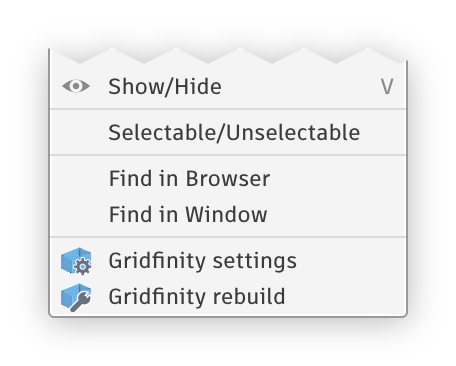
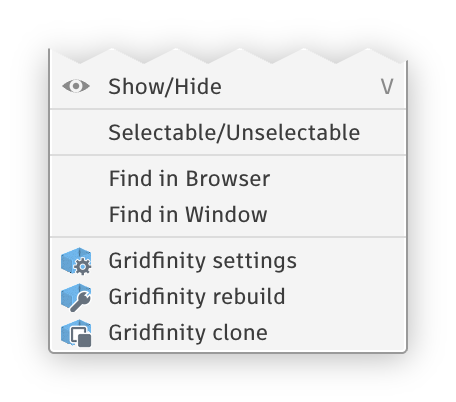
Clone a bin or baseplate from its context menu
A Gridfinity clone item below Gridfinity settings and rebuild opens the
generator dialog with the body's settings to build a new one, as the
Clone button of the settings window does. Its icon is a bin with two
sheets, a copy. The README and its context menu shots show it.

diff --git a/commands/commandShowSettings/entry.py b/commands/commandShowSettings/entry.py
@@ -26,6 +26,12 @@ REBUILD_CMD_NAME = 'Gridfinity rebuild'
 # a bin with a wrench
 REBUILD_ICON_FOLDER = os.path.join(os.path.dirname(os.path.abspath(__file__)), 'resources', 'rebuild', '')
 REBUILD_CMD_DESCRIPTION = 'Open the generator dialog with the settings of this bin or baseplate to build it again in its place, keeping the features after it'
+# the context menu item opening the generator's dialog with these settings for a new body, as the Clone button of the window does
+CLONE_CMD_ID = f'{config.COMPANY_NAME}_{config.ADDIN_NAME}_cmdClone'
+CLONE_CMD_NAME = 'Gridfinity clone'
+# a bin with two sheets, a copy
+CLONE_ICON_FOLDER = os.path.join(os.path.dirname(os.path.abspath(__file__)), 'resources', 'clone', '')
+CLONE_CMD_DESCRIPTION = 'Open the generator dialog with the settings of this bin or baseplate to build a new one'
 
 SETTINGS_TEXT_INPUT = 'settings_text'
 SETTINGS_BROWSER = 'settings'
@@ -75,6 +81,10 @@ def canRebuild(tag: tuple[adsk.fusion.BRepBody, str, dict] | None) -> bool:
     """Bodies generated before the generator kept the config can't be rebuilt"""
     return tag is not None and tag[1] in REBUILD_COMMANDS and isinstance(tag[2].get('config'), dict)
 
+def canClone(tag: tuple[adsk.fusion.BRepBody, str, dict] | None) -> bool:
+    """Bodies generated before the generator kept the config can't be cloned"""
+    return tag is not None and tag[1] in CLONE_COMMANDS and isinstance(tag[2].get('config'), dict)
+
 def startRebuild(tag: tuple[adsk.fusion.BRepBody, str, dict]):
     (body, tagName, value) = tag
     REBUILD_COMMANDS[tagName].startRebuild(body, value)
@@ -94,6 +104,10 @@ def start():
     if not rebuild_def:
         rebuild_def = ui.commandDefinitions.addButtonDefinition(REBUILD_CMD_ID, REBUILD_CMD_NAME, REBUILD_CMD_DESCRIPTION, REBUILD_ICON_FOLDER)
     futil.add_handler(rebuild_def.commandCreated, rebuild_command_created)
+    clone_def = ui.commandDefinitions.itemById(CLONE_CMD_ID)
+    if not clone_def:
+        clone_def = ui.commandDefinitions.addButtonDefinition(CLONE_CMD_ID, CLONE_CMD_NAME, CLONE_CMD_DESCRIPTION, CLONE_ICON_FOLDER)
+    futil.add_handler(clone_def.commandCreated, clone_command_created)
     markingMenuHandler = futil.add_handler(ui.markingMenuDisplaying, marking_menu_displaying, local_handlers=local_handlers)
 
 def stop():
@@ -101,7 +115,7 @@ def stop():
     if markingMenuHandler is not None:
         ui.markingMenuDisplaying.remove(markingMenuHandler)
         markingMenuHandler = None
-    for cmdId in [CMD_ID, REBUILD_CMD_ID]:
+    for cmdId in [CMD_ID, REBUILD_CMD_ID, CLONE_CMD_ID]:
         command_definition = ui.commandDefinitions.itemById(cmdId)
         if command_definition:
             command_definition.deleteMe()
@@ -117,6 +131,8 @@ def marking_menu_displaying(args: adsk.core.MarkingMenuEventArgs):
         controls.addCommand(ui.commandDefinitions.itemById(CMD_ID))
         if canRebuild(menuTag):
             controls.addCommand(ui.commandDefinitions.itemById(REBUILD_CMD_ID))
+        if canClone(menuTag):
+            controls.addCommand(ui.commandDefinitions.itemById(CLONE_CMD_ID))
     except Exception as err:
         futil.log(f'{CMD_NAME} context menu failed, {err}')
 
@@ -146,6 +162,18 @@ def rebuild_command_created(args: adsk.core.CommandCreatedEventArgs):
         startRebuild(tag)
     except Exception as err:
         futil.handle_error(f'{REBUILD_CMD_NAME} failed, {err}', show_message_box=True)
+
+def clone_command_created(args: adsk.core.CommandCreatedEventArgs):
+    """Opens the generator's dialog in place of this command, which has nothing to show"""
+    tag = selectedTag() or menuTag
+    try:
+        if not canClone(tag):
+            ui.messageBox('Select a generated bin or baseplate to clone.', CLONE_CMD_NAME)
+            return
+        (_, tagName, value) = tag
+        CLONE_COMMANDS[tagName].startWithConfig(value['config'])
+    except Exception as err:
+        futil.handle_error(f'{CLONE_CMD_NAME} failed, {err}', show_message_box=True)
 
 def command_incoming_from_html(args: adsk.core.HTMLEventArgs, body: adsk.fusion.BRepBody, tagName: str, value: dict):
     browserPages.handleMessage(args, pageHandlers(body, tagName, value))

diff --git a/README.md b/README.md
@@ -62,7 +62,7 @@ Skeletonized baseplates can have holes between them for a screw or a glued in pi
   - magnet sockets, sized for a snug fit of the magnets, optionally with tabs holding them in
   - screw holes of adjustable diameter, with a groove for printability when combined with magnet sockets
   - joint origins at the bottom of every foot, to joint the bin into baseplate sockets
-- **Settings** can be saved as the dialog defaults, saved to or loaded from a JSON file, copied to the clipboard or cloned into a new bin
+- **Settings** can be saved as the dialog defaults, saved to or loaded from a JSON file, copied to the clipboard or cloned into a new bin, also from its right-click menu
 - **Rebuild** a generated bin or baseplate with changed settings, from its right-click menu or its settings window, it's built again at its place in the timeline and the features after it keep working on the new body. Features picked on a face or an edge of the old body are listed to pick again. For a bin, changing only what its parameters hold, like the height or label text, sets them instead, without building it again
 
 <picture><source media="(prefers-color-scheme: dark)" srcset="documentation/assets/gif/bin-features-dark.gif"><img src="documentation/assets/gif/bin-features-light.gif" alt="Changing the size, type and wall thickness of a bin, with the bin at each change"></picture>
@@ -132,9 +132,9 @@ Bin for random round things
 ![](documentation/assets/gif/specialized-bin-creation.gif)
 
 ### Settings and rebuild
-Right-click a generated bin or baseplate for its settings or to rebuild it in place with changed settings. The settings window shows what it was built with, saves them to a file, copies or clones them
+Right-click a generated bin or baseplate for its settings, to rebuild it in place with changed settings or to clone it into a new one. The settings window shows what it was built with, saves them to a file, copies or clones them
 
-<picture><source media="(prefers-color-scheme: dark)" srcset="documentation/assets/ui/context-menu-gridfinity-scene-dark.png"><img src="documentation/assets/ui/context-menu-gridfinity-scene-light.png" alt="Fusion's right-click menu opened on a bin, the pointer on Gridfinity rebuild below Gridfinity settings" width="508"></picture>
+<picture><source media="(prefers-color-scheme: dark)" srcset="documentation/assets/ui/context-menu-gridfinity-scene-dark.png"><img src="documentation/assets/ui/context-menu-gridfinity-scene-light.png" alt="Fusion's right-click menu opened on a bin, the pointer on Gridfinity clone below Gridfinity settings and Gridfinity rebuild" width="508"></picture>
 
 ## Installation
 
